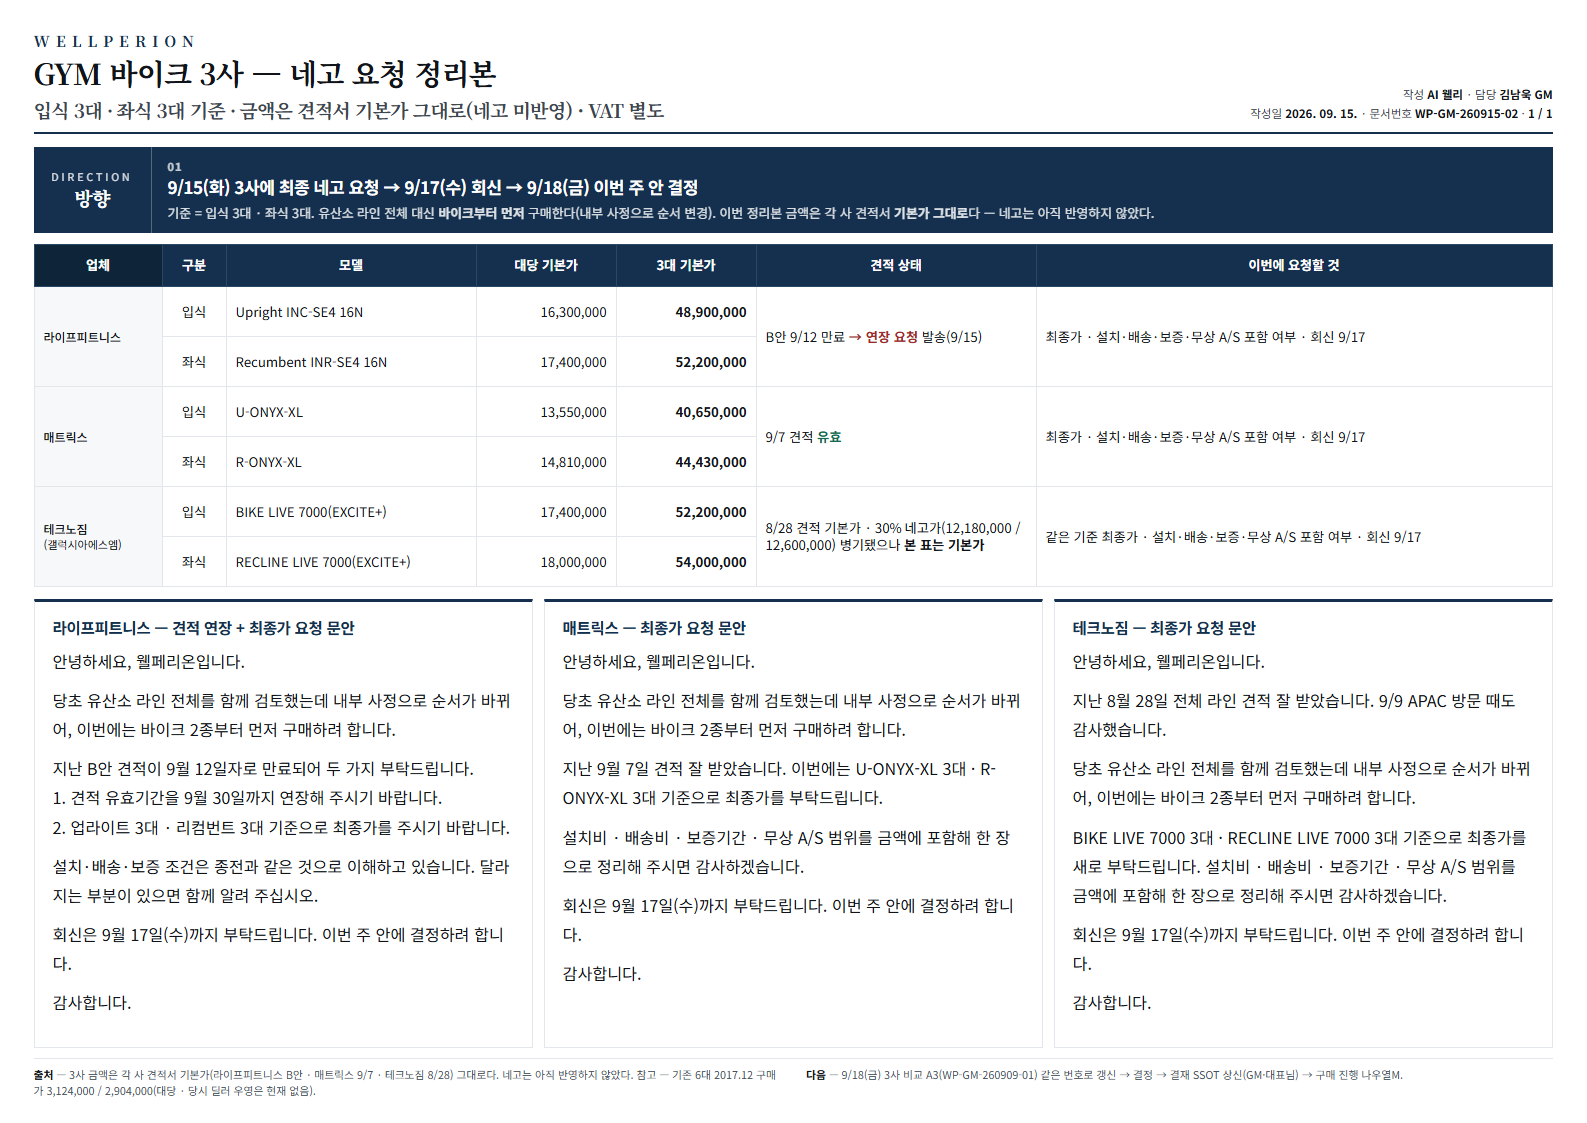
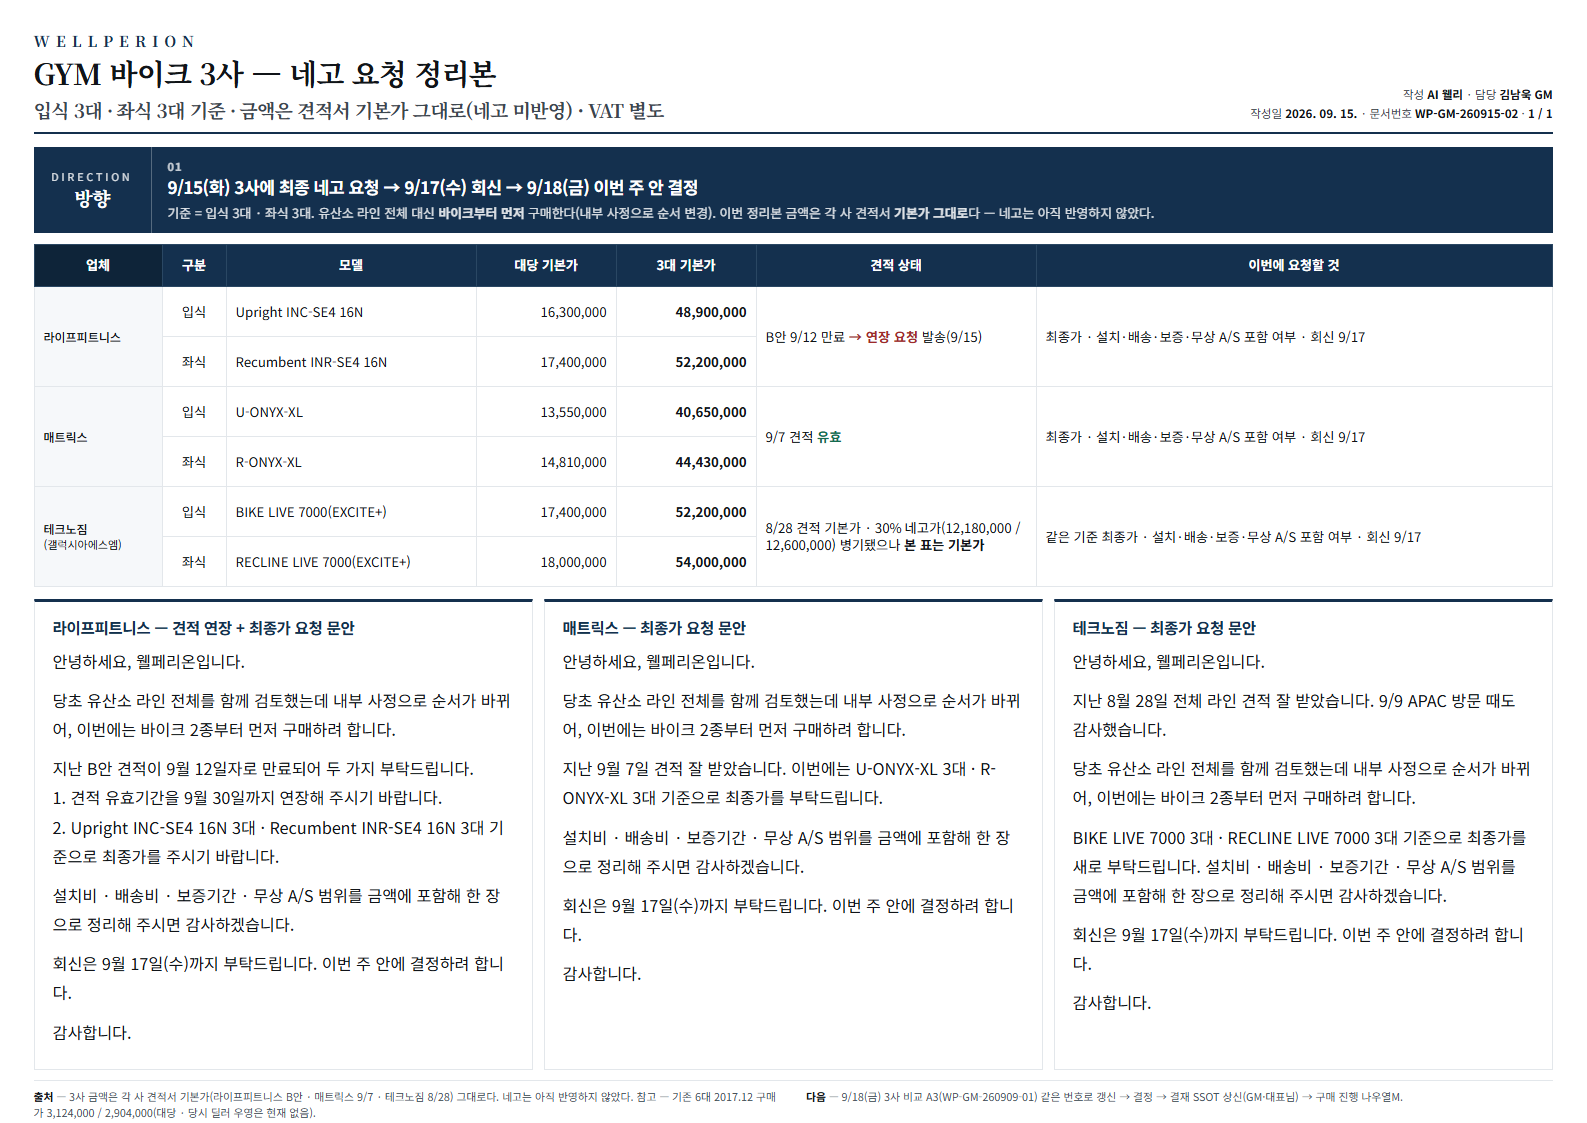
[웰리] 네고 정리본 — 라이프피트니스 문안 모델명 기준으로 정정 (GM 09-15)

Changed region(s): [[0.0, 0.7168, 0.8954, 0.9973]]

diff --git a/3. 웰페리온 가이드/coo/chairman/260915_바이크_3사_네고요청_정리본_A3.html b/3. 웰페리온 가이드/coo/chairman/260915_바이크_3사_네고요청_정리본_A3.html
@@ -205,8 +205,8 @@
       <h3>라이프피트니스 — 견적 연장 + 최종가 요청 문안</h3>
       <p>안녕하세요, 웰페리온입니다.</p>
       <p>당초 유산소 라인 전체를 함께 검토했는데 내부 사정으로 순서가 바뀌어, 이번에는 바이크 2종부터 먼저 구매하려 합니다.</p>
-      <p>지난 B안 견적이 9월 12일자로 만료되어 두 가지 부탁드립니다.<br>1. 견적 유효기간을 9월 30일까지 연장해 주시기 바랍니다.<br>2. 업라이트 3대 · 리컴번트 3대 기준으로 최종가를 주시기 바랍니다.</p>
-      <p>설치·배송·보증 조건은 종전과 같은 것으로 이해하고 있습니다. 달라지는 부분이 있으면 함께 알려 주십시오.</p>
+      <p>지난 B안 견적이 9월 12일자로 만료되어 두 가지 부탁드립니다.<br>1. 견적 유효기간을 9월 30일까지 연장해 주시기 바랍니다.<br>2. Upright INC-SE4 16N 3대 · Recumbent INR-SE4 16N 3대 기준으로 최종가를 주시기 바랍니다.</p>
+      <p>설치비 · 배송비 · 보증기간 · 무상 A/S 범위를 금액에 포함해 한 장으로 정리해 주시면 감사하겠습니다.</p>
       <p>회신은 9월 17일(수)까지 부탁드립니다. 이번 주 안에 결정하려 합니다.</p>
       <p>감사합니다.</p>
     </div>
